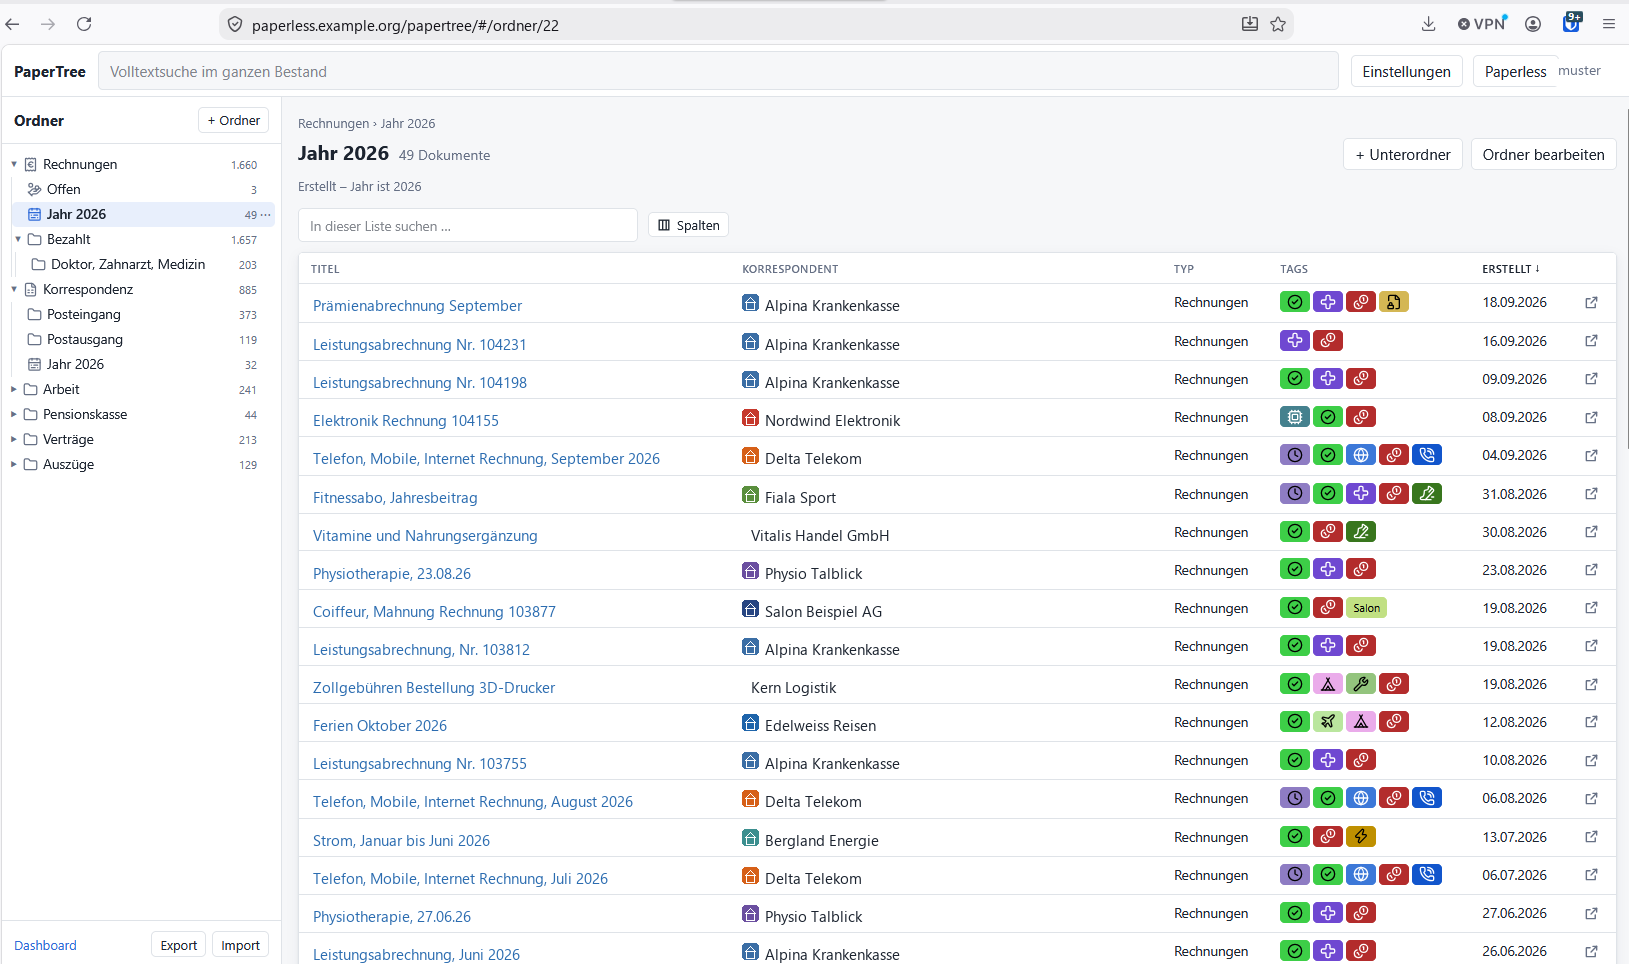
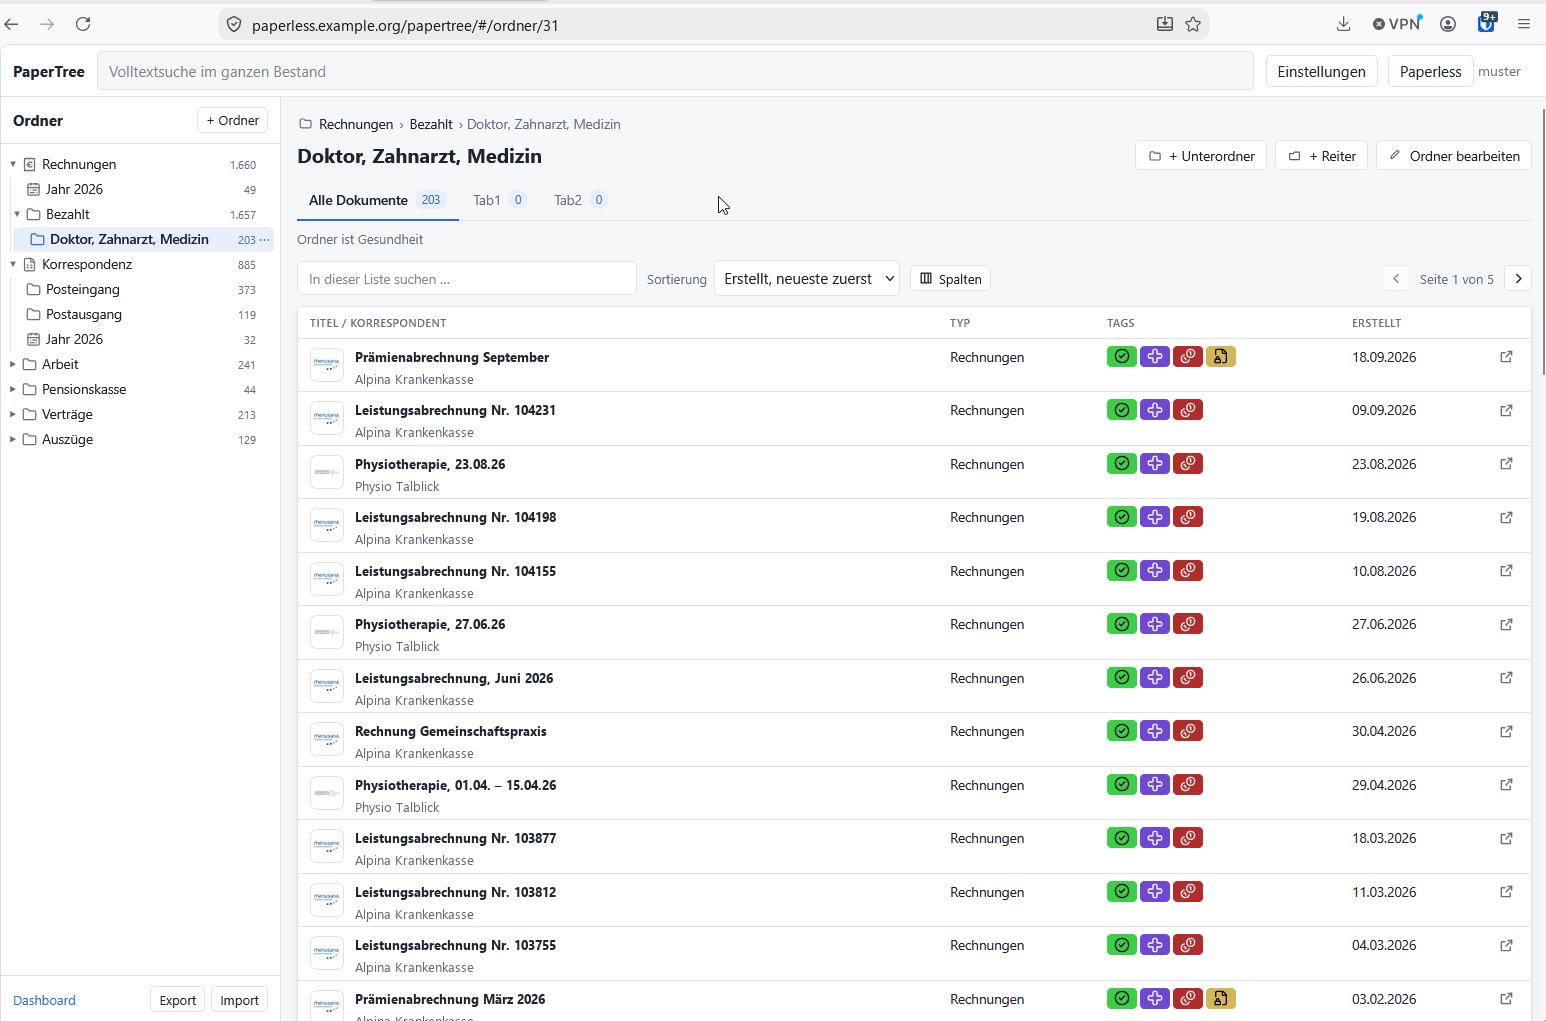
Bilder auf den Stand von 0.4.0, dazu die Startseite
Die alten Bilder zeigten die Liste vor dem Umbau. Neu aufgenommen: Ordner
mit Reitern, Dokumentansicht, Editor - und die Startseite, die es vorher
nicht gab.

Anonymisiert ist nur der Text: Titel, Korrespondenten, Namen, Adressen und
Betraege. Die Logos bleiben, denn sie zeigen genau die Funktion, um die es
geht; die Ersatznamen folgen ihnen, damit neben dem Zeichen der Kasse keine
Garage steht.

diff --git a/README.md b/README.md
@@ -11,10 +11,12 @@ N1–N6 in the source files refer to it.
 *Deutsche Fassung: [README.de.md](README.de.md). The interface itself speaks
 five languages; the code, comments and command-line flags are German.*
 
-![A folder with its document list](docs/bilder/01-ordner.png)
+![A folder with its document list, with tabs](docs/bilder/01-ordner.png)
 
-*More: [screenshots in the wiki](https://github.com/sommer79/papertree/wiki/Screenshots).
-Names, correspondents and documents in the pictures are invented.*
+*More: [screenshots in the wiki](https://github.com/sommer79/papertree/wiki/Screenshots)
+— the start page, the folder editor, the document view and the settings.
+Names, correspondents and documents in the pictures are invented; the logos
+are real, because they show what the feature does.*
 
 ## What PaperTree does
 

diff --git a/README.de.md b/README.de.md
@@ -10,10 +10,12 @@ Quelldateien verweisen darauf.
 
 *English version: [README.md](README.md).*
 
-![Ein Ordner mit seiner Dokumentliste](docs/bilder/01-ordner.png)
+![Ein Ordner mit seiner Dokumentliste und Reitern](docs/bilder/01-ordner.png)
 
-*Mehr davon: [Screenshots im Wiki](https://github.com/sommer79/papertree/wiki/Screenshots).
-Namen, Korrespondenten und Dokumente auf den Bildern sind erfunden.*
+*Mehr davon: [Screenshots im Wiki](https://github.com/sommer79/papertree/wiki/Screenshots)
+– die Startseite, der Ordner-Editor, die Dokumentansicht und die Einstellungen.
+Namen, Korrespondenten und Dokumente auf den Bildern sind erfunden; die Logos
+sind echt, weil sie zeigen, was die Funktion tut.*
 
 ## Was PaperTree kann
 
